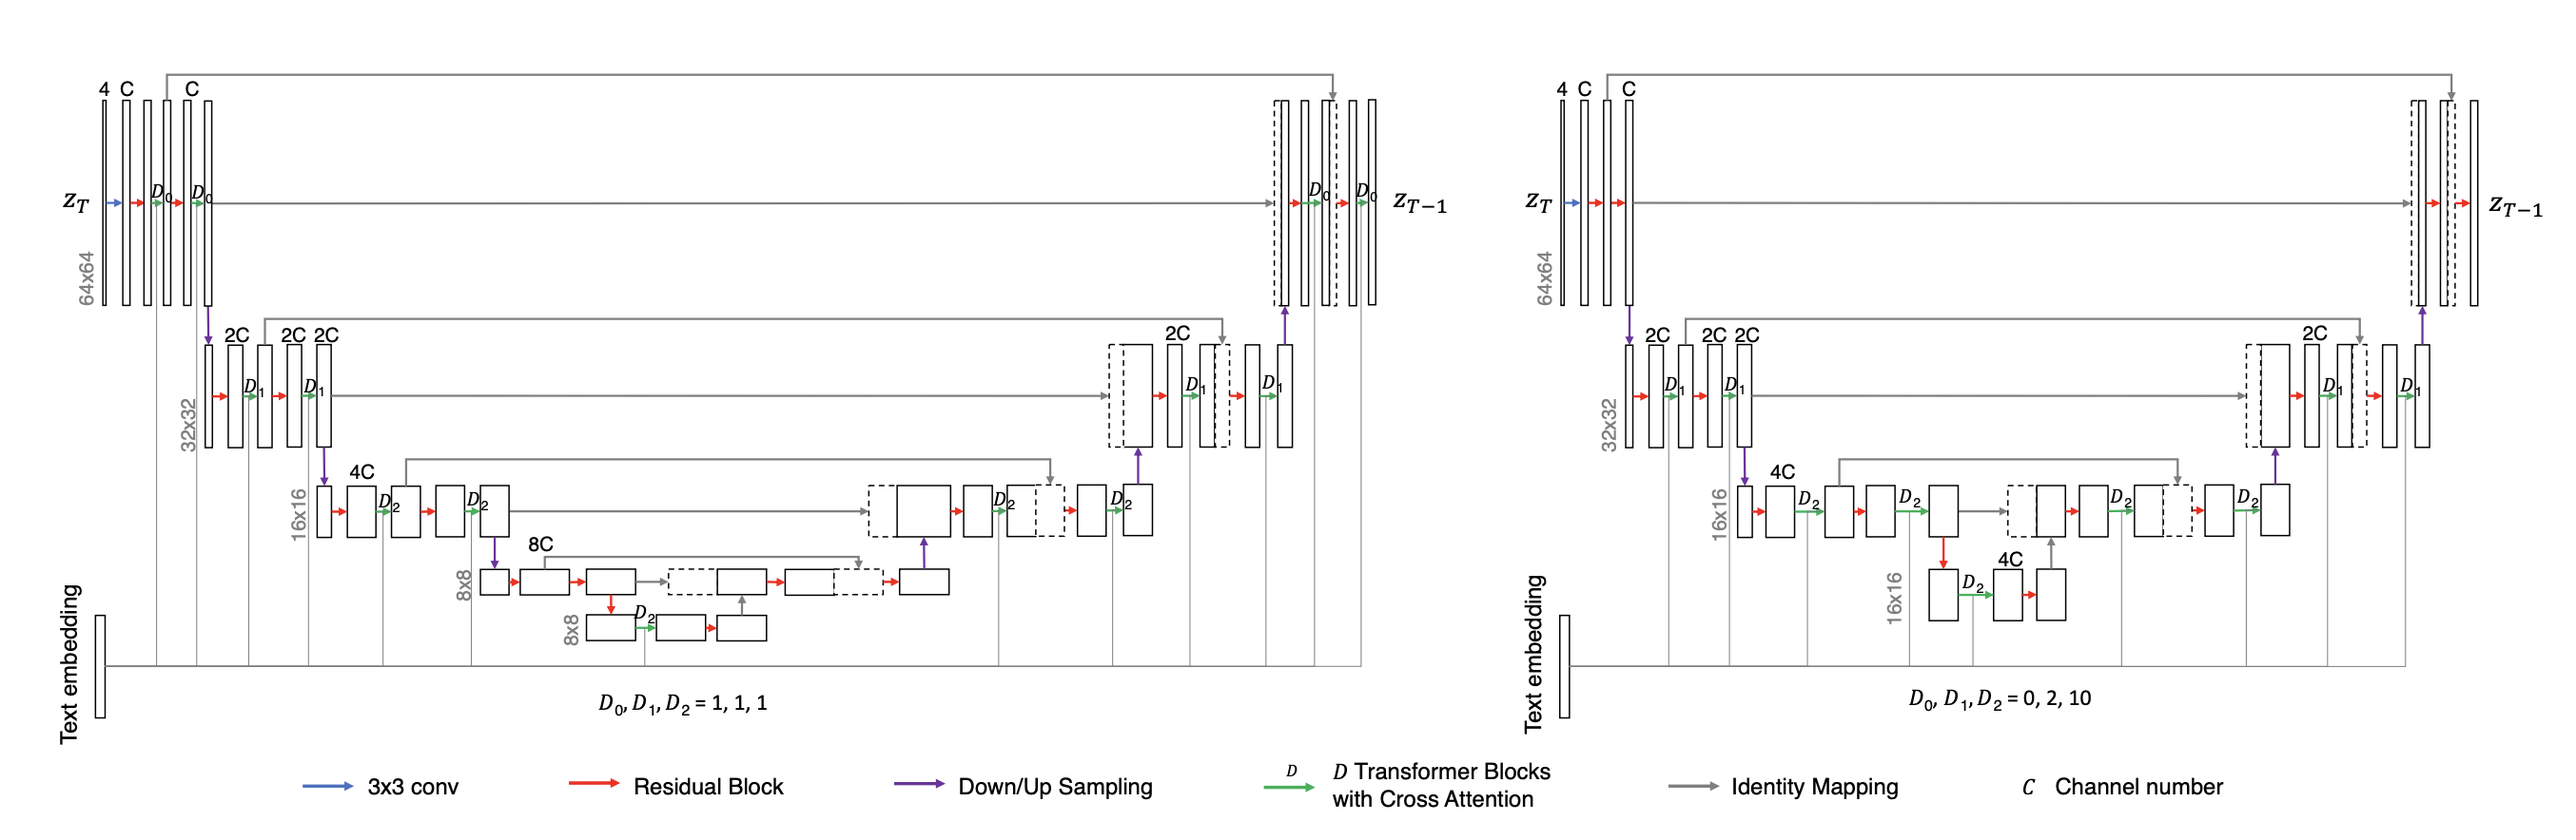
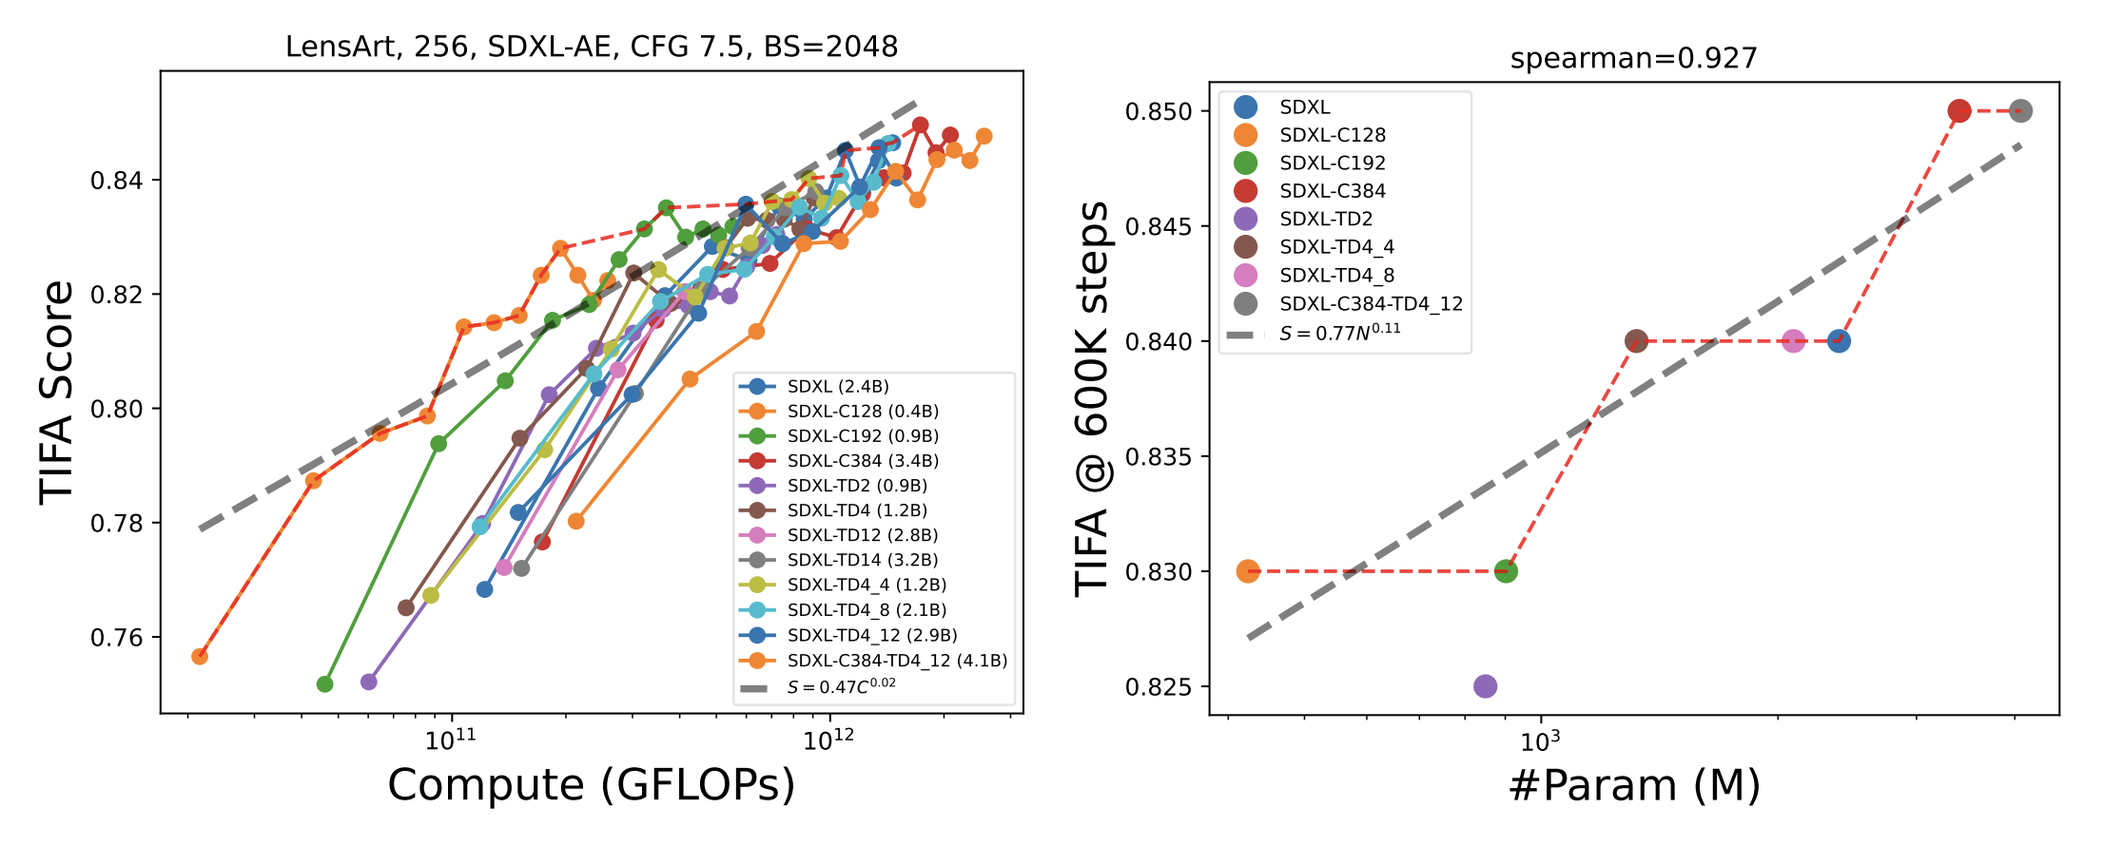
update CVPR arXiv link

diff --git a/index.html b/index.html
@@ -68,18 +68,18 @@ with a focus on accelerating and understanding deep neural nets.</p>
 <table>
   <tr height="150px">
     <td>
-      <img src="figure/cvpr2024.png" align=top width=300 style="vertical-align:middle;margin:20px 20px 10px 0px">
+      <img src="figure/cvpr2024.png" align=top width=350 style="vertical-align:middle;margin:20px 20px 10px 0px">
     </td>
     <td>
       <a target="_blank" href="https://arxiv.org/abs/2404.02883"><strong>On the Scalability of Diffusion-based Text-to-Image Generation</strong></a><br>
-      <u>Hao Li</u>, Yang Zou, Ying Wang, Orchid Majumder, Yusheng Xie, R. Manmatha, <br>
+      <u>Hao Li</u>, Yang Zou, Ying Wang, Orchid Majumder, Yusheng Xie, R. Manmatha,
       Ashwin Swaminathan, Zhuowen Tu, Stefano Ermon, Stefano Soatto<br>
       <strong>CVPR</strong> 2024 [<a target="_blank" href="https://arxiv.org/pdf/2404.02883.pdf"> pdf </a>]
     </td>
   </tr>
   <tr height="150px">
     <td>
-      <img src="figure/cvpr2023.png" align=top width=300 style="vertical-align:middle;margin:20px 20px 10px 0px">
+      <img src="figure/cvpr2023.png" align=top width=350 style="vertical-align:middle;margin:20px 20px 10px 0px">
     </td>
     <td>
       <a target="_blank" href="https://ljk628.github.io/paper/cvpr23_guided_recom.pdf"><strong>Guided Recommendation for Model Fine-Tuning</strong></a><br>
@@ -89,7 +89,7 @@ with a focus on accelerating and understanding deep neural nets.</p>
   </tr>
   <tr height="150px">
     <td>
-      <img src="figure/cvpr2022.png" align=top width=300 style="vertical-align:middle;margin:20px 20px 10px 0px">
+      <img src="figure/cvpr2022.png" align=top width=350 style="vertical-align:middle;margin:20px 20px 10px 0px">
     </td>
     <td>
       <a target="_blank" href="https://arxiv.org/pdf/2203.16708.pdf"><strong>Task Adaptive Parameter Sharing for Multi-Task Learning</strong></a><br>
@@ -100,18 +100,18 @@ with a focus on accelerating and understanding deep neural nets.</p>
   </tr>
   <tr height="120px">
     <td>
-      <img src="figure/iclr2020.png" align=top width=300 style="vertical-align:middle;margin:20px 20px 10px 0px">
+      <img src="figure/iclr2020.png" align=top width=350 style="vertical-align:middle;margin:20px 20px 10px 0px">
     </td>
     <td>
       <a target="_blank" href="https://arxiv.org/pdf/2002.11770.pdf"><strong>Rethinking the Hyperparameters for Fine-tuning</strong></a><br>
-      <u>Hao Li</u>, Pratik Chaudhari, Hao Yang, Michael Lam, Avinash Ravichandran, Rahul Bhotika, Stefano Soatto <br>
+      <u>Hao Li</u>, Pratik Chaudhari, Hao Yang, Michael Lam, Avinash Ravichandran, <br> Rahul Bhotika, Stefano Soatto <br>
       <strong>ICLR</strong> 2020 [<a target="_blank" href="https://iclr.cc/virtual_2020/poster_B1g8VkHFPH.html">video</a>]
     </td>
   </tr>
   <tr></tr>
   <tr height="120px">
     <td>
-      <img src="figure/neurips2018.png" align=top width=300 style="vertical-align:middle;margin:10px 20px 20px 0px">
+      <img src="figure/neurips2018.png" align=top width=350 style="vertical-align:middle;margin:10px 20px 20px 0px">
     </td>
     <td>
       <a target="_blank" href="https://arxiv.org/pdf/1712.09913.pdf"><strong>Visualizing the Loss Landscape of Neural Nets</strong></a><br>
@@ -123,7 +123,7 @@ with a focus on accelerating and understanding deep neural nets.</p>
   <tr></tr>
   <tr height="120px">
     <td>
-      <img src="figure/nips2017.png" align=top width=300 style="vertical-align:middle;margin:30px 20px 30px 0px">
+      <img src="figure/nips2017.png" align=top width=350 style="vertical-align:middle;margin:30px 20px 30px 0px">
     </td>
     <td>
       <a target="_blank" href="https://arxiv.org/pdf/1706.02379.pdf"><strong>Training Quantized Nets: A Deeper Understanding</strong></a><br>
@@ -151,7 +151,7 @@ with a focus on accelerating and understanding deep neural nets.</p>
 <table>
   <tr height="120px">
     <td>
-      <img src="figure/cs_logo.png" align=top width=300 style="vertical-align:middle;margin:10px 20px 20px 0px">
+      <img src="figure/cs_logo.png" align=top width=350 style="vertical-align:middle;margin:10px 20px 20px 0px">
     </td>
     <td>
       <a target="_blank" href="https://drum.lib.umd.edu/handle/1903/21161"><strong>Towards Fast and Efficient Representation Learning</strong></a><br>
